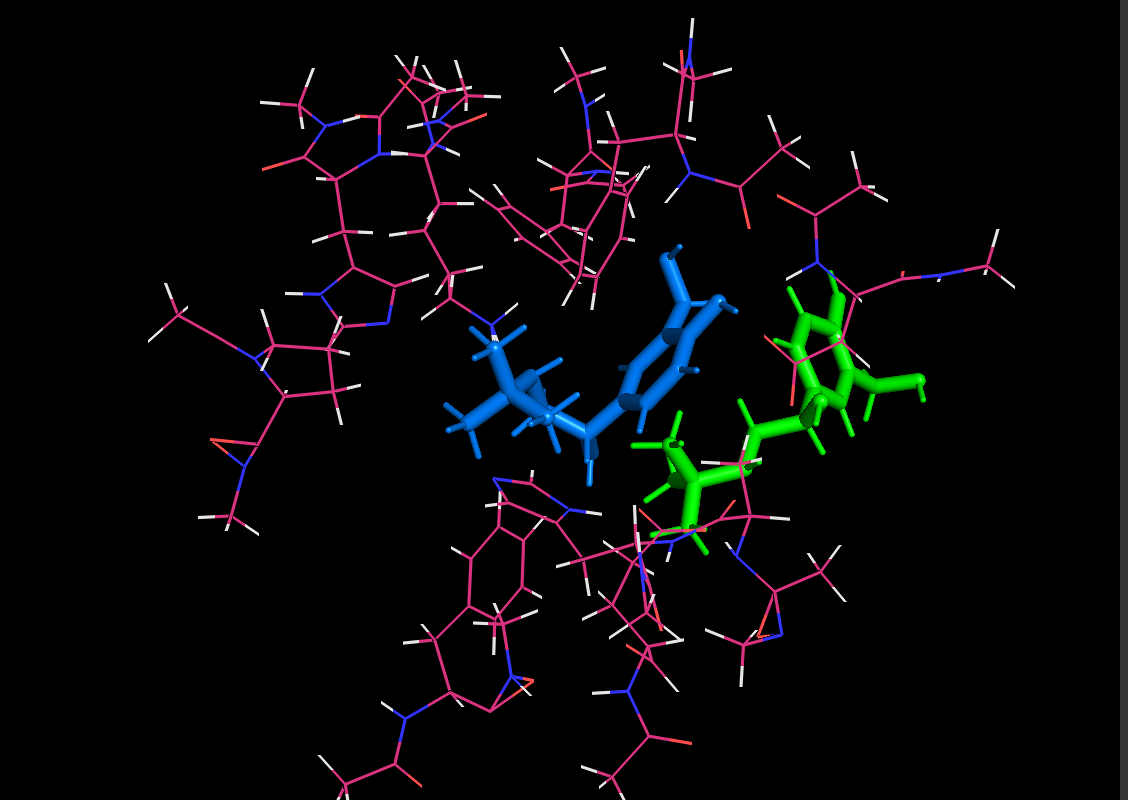
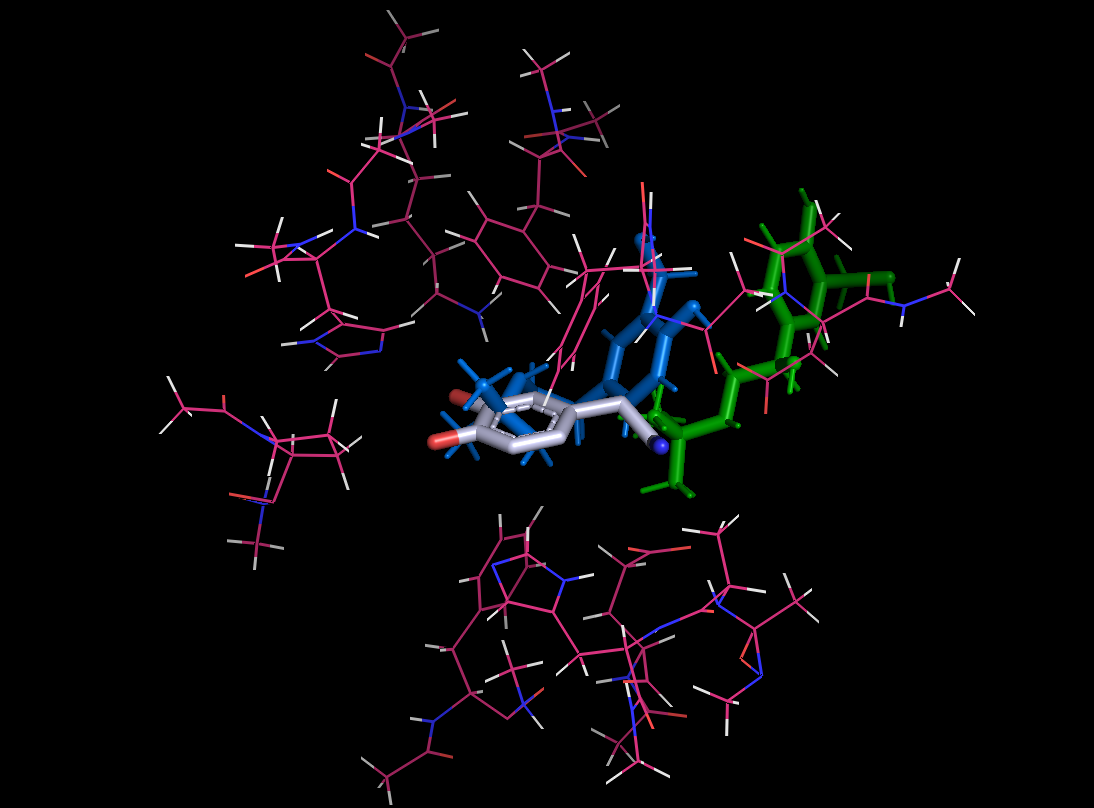
Update overlay image + caption: 3-way (LDP crystal / UMADock / MM-GBSA)
ud_vs_mm_pose.png now shows a three-way overlay -- the crystallographic LDP
ligand (silver), UMADock's pose (blue), and the AutoDock/MM-GBSA pose (green)
-- rather than just the two-pose comparison. Updated the README caption/alt
text to match.

diff --git a/README.md b/README.md
@@ -192,12 +192,13 @@ truncated, capped ~275-atom chain-A cluster:
 <p align="center">
   <img src="sal_pose.png" width="45%" alt="Salbutamol docked pose (UMADock, UMA) in the SULT1A3 chain-A pocket">
   &nbsp;
-  <img src="ud_vs_mm_pose.png" width="45%" alt="UMADock pose vs. the MM-GBSA run's final-frame pose, overlaid in PyMOL">
+  <img src="ud_vs_mm_pose.png" width="45%" alt="Three-way overlay in PyMOL: the crystallographic LDP ligand (silver), UMADock's pose (blue), and the AutoDock/MM-GBSA pose (green)">
 </p>
 
-Left: UMADock's best pose. Right: UMADock's pose (this run) overlaid against the MM-GBSA
-trajectory's final frame — both in the same crystallographic coordinate frame (2A3R, no
-recentering), so the offset shown is a real positional difference, not a plotting artifact.
+Left: UMADock's best pose. Right: a three-way overlay — the crystallographic **LDP** ligand
+that defines the pocket (silver), **UMADock**'s pose (blue), and the **AutoDock/MM-GBSA**
+pose (green) — all in the same crystallographic coordinate frame (2A3R, no recentering), so
+the offsets shown are real positional differences, not a plotting artifact.
 
 ## CLI_version
 -  See the CLI_version folder for an implementation to be run from the command line.
